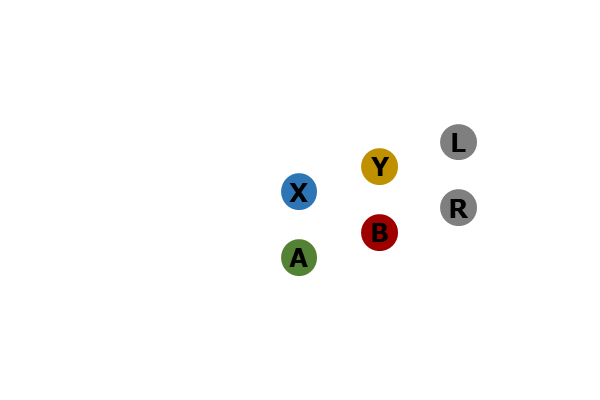
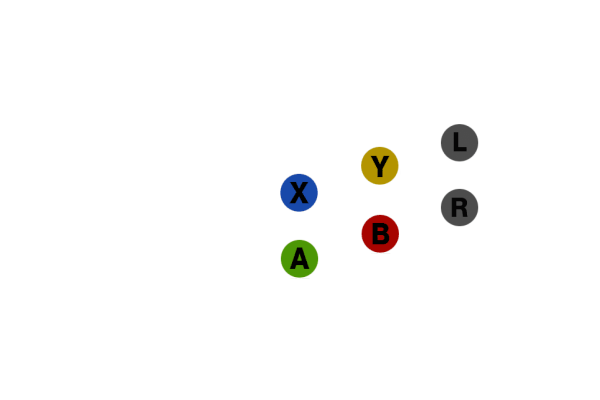
update for fbdev

diff --git a/PauseMenu/PauseMenu4FBdev.py b/PauseMenu/PauseMenu4FBdev.py
@@ -398,7 +398,7 @@ def draw_picture(buttons):
     
     # Generate current layout image
     pos = ["80x22+320+188", "80x22+400+162", "80x22+480+138", "80x22+320+253", "80x22+400+229", "80x22+480+203"]
-    cmd = "cp " + PATH_PAUSEMENU + "images/control/background/bg_layout" + str(es_conf) + ".png" + LAYOUT+"0.png"
+    cmd = "cp " + PATH_PAUSEMENU + "images/control/background/bg_layout0.png" + LAYOUT+"0.png"
     os.system(cmd)
     for i in range(1,7):
         btn = btn_map[user_key[str(i)]]
@@ -428,7 +428,7 @@ def draw_picture(buttons):
                 print_map['4'] = buttons[0]
                 print_map['5'] = buttons[1]
                 print_map['6'] = buttons[2] 
-            cmd = "cp " + PATH_PAUSEMENU + "images/control/background/bg_layout" + str(es_conf) + ".png" + LAYOUT+str(i)+".png"
+            cmd = "cp " + PATH_PAUSEMENU + "images/control/background/bg_layout0.png" + LAYOUT+str(i)+".png"
             os.system(cmd)
             for j in range(1,7):
                 btn = print_map[str(j)]
@@ -463,7 +463,7 @@ def draw_picture(buttons):
                 print_map['4'] = buttons[0]
                 print_map['5'] = buttons[1]
                 print_map['6'] = buttons[2]
-            cmd = "cp " + PATH_PAUSEMENU + "images/control/background/bg_layout" + str(es_conf) + ".png" + LAYOUT+str(i)+".png"
+            cmd = "cp " + PATH_PAUSEMENU + "images/control/background/bg_layout0.png" + LAYOUT+str(i)+".png"
             os.system(cmd)
             for j in range(1,7):
                 btn = print_map[str(j)]
@@ -519,7 +519,7 @@ def draw_picture(buttons):
                 print_map['4'] = buttons[0]
                 print_map['5'] = buttons[1]
                 print_map['6'] = buttons[2]
-            cmd = "cp " + PATH_PAUSEMENU + "images/control/background/bg_layout" + str(es_conf) + ".png" + LAYOUT+str(i)+".png"
+            cmd = "cp " + PATH_PAUSEMENU + "images/control/background/bg_layout0.png" + LAYOUT+str(i)+".png"
             os.system(cmd)
             for j in range(1,7):
                 btn = print_map[str(j)]

diff --git a/PauseMenu/setup.py b/PauseMenu/setup.py
@@ -61,8 +61,35 @@ def set_layout():
     f = open(PATH_PAUSEMENU + "images/control/layout.cfg", 'w')
     f.write(str(es_conf)+'\n')
     f.close()
-    
 
+    if OPT == '/opt/retroarena':
+        cmd = "composite " + \
+            PATH_PAUSEMENU + "images/control/background/bg_layout" + str(es_conf) + ".png " + \
+            PATH_PAUSEMENU + "images/fba_resume.png " + \
+            PATH_PAUSEMENU + "images/fba_resume.png"
+        os.system(cmd)
+        cmd = "composite " + \
+            PATH_PAUSEMENU + "images/control/background/bg_layout" + str(es_conf) + ".png " + \
+            PATH_PAUSEMENU + "images/fba_stop.png " + \
+            PATH_PAUSEMENU + "images/fba_stop.png"
+        os.system(cmd)
+        cmd = "composite " + \
+            PATH_PAUSEMENU + "images/control/background/bg_layout" + str(es_conf) + ".png " + \
+            PATH_PAUSEMENU + "images/fba_reset.png " + \
+            PATH_PAUSEMENU + "images/fba_reset.png"
+        os.system(cmd)
+        cmd = "composite " + \
+            PATH_PAUSEMENU + "images/control/background/bg_layout" + str(es_conf) + ".png " + \
+            PATH_PAUSEMENU + "images/fba_save.png " + \
+            PATH_PAUSEMENU + "images/fba_save.png"
+        os.system(cmd)
+        cmd = "composite " + \
+            PATH_PAUSEMENU + "images/control/background/bg_layout" + str(es_conf) + ".png " + \
+            PATH_PAUSEMENU + "images/fba_load.png " + \
+            PATH_PAUSEMENU + "images/fba_load.png"
+        os.system(cmd)
+
+    
 def load_retroarch_cfg(dev_name):
     print 'Device Name: ', dev_name, '\n'
     
